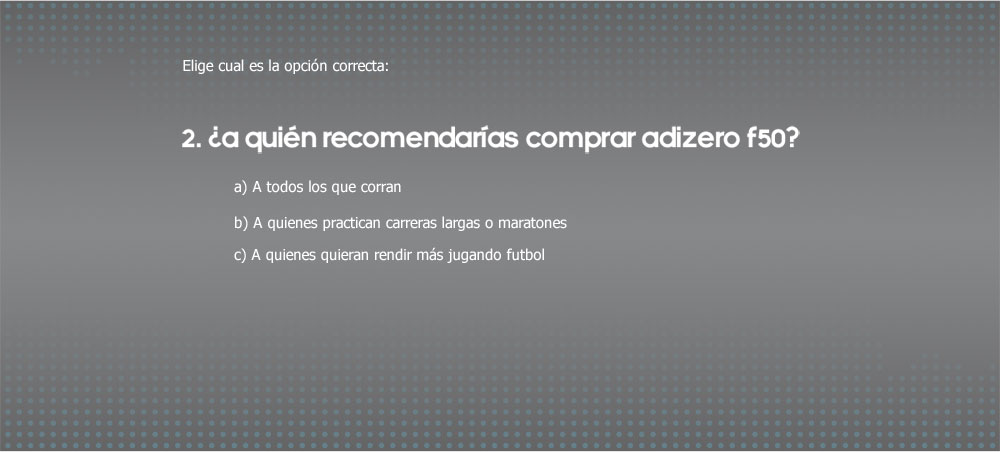
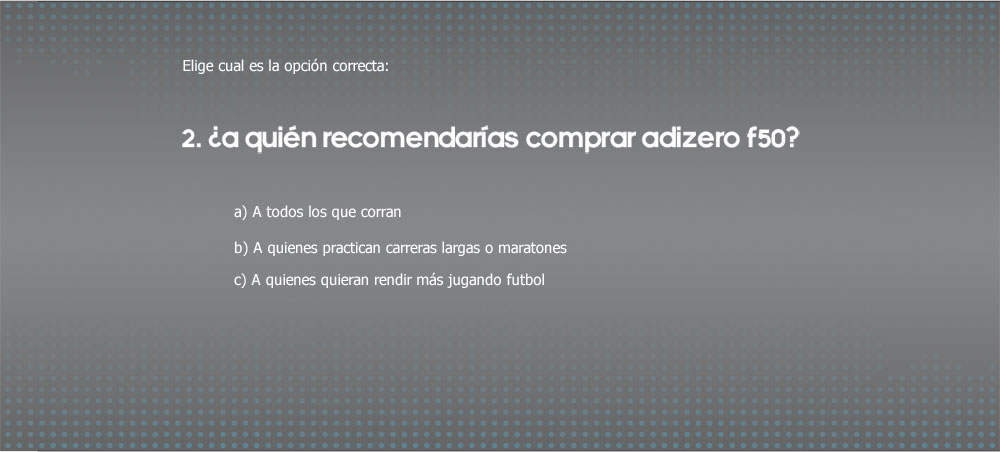
evaluacion.php complete

Changed region(s): [[0.217, 0.4646, 0.558, 0.6504], [0.031, 0.9912, 1.0, 1.0], [0.217, 0.4027, 0.403, 0.4336]]

diff --git a/style.css b/style.css
@@ -854,7 +854,7 @@ font-size: 12px;
 }
 
 .slidedeck_buttons{
-    left:625px;
+    left:710px;
     position:absolute;
     top:10px;
     z-index:1;
@@ -873,19 +873,19 @@ font-size: 12px;
 
 .slidedeck_op1{
     position: absolute;
-    top: 182px;
+    top: 207px;
     left: 215px;
     z-index: 1;
 }
 .slidedeck_op2{
     position: absolute;
-    top: 216px;
+    top: 243px;
     left: 215px;
     z-index: 1;
 }
 .slidedeck_op3{
     position: absolute;
-    top: 249px;
+    top: 275px;
     left: 215px;
     z-index: 1;
 }

diff --git a/evaluacion.php b/evaluacion.php
@@ -1,9 +1,10 @@
 <?php
 include_once('functions.php');
 $logoutAction = logout();
+$eval = $_GET['eval'];
 if(isset($_GET['evaluacion'])){
-$aciertos=0;	
-$errores=0;
+	$aciertos=0;		
+	$errores=0;
 	$_GET['eval'] = $_GET['evaluacion'];
 	$error=false;
 	$error=(isset($_GET['p1']))?false:true;
@@ -17,43 +18,38 @@ $errores=0;
 	$error=(isset($_GET['p9']))?false:true;
 	
 	if(!$error){
-		switch($_GET['evaluacion'])
-{
-	case 'f50':
-	$respuestas=array('a','a','a','a','a','true','true','true','true');
-	break;
-	case'predator':
-	$respuestas=array('b','b','b','b','b','false','false','false','false');
-	break;
-	case'adipure':
-	$respuestas=array('c','c','c','c','c','true','true','true','true',);
-	break;
-}
-for($i=1;$i<10;$i++)
-{
-	if($_GET['p'.$i]==$respuestas[$i-1]){
-		$aciertos++;
-								  }	
-	else{
-	$errores++;
+		switch($_GET['evaluacion']){
+			case 'f50':
+			$respuestas=array('a','a','a','a','a','true','true','true','true');
+			break;
+			case'predator':
+			$respuestas=array('b','b','b','b','b','false','false','false','false');
+			break;
+			case'adipure':
+			$respuestas=array('c','c','c','c','c','true','true','true','true',);
+			break;
+		}
+		for($i=1;$i<10;$i++){
+			if($_GET['p'.$i]==$respuestas[$i-1]){
+				$aciertos++;
+			}else{
+				$errores++;
+			}
+		}
+  		$resultado=$aciertos-$errores;
+  		if($resultado<0){
+	  		$resultado=0;
+		}
+  		$user= new User();
+  		$user->set_evaluation($_SESSION['id'],$resultado*10,$_GET['evaluacion']);
 	}
 }
-  $resultado=$aciertos-$errores;
-  if($resultado<0){
-	  $resultado=0;
-	}
-  $user= new User();
-  $user->set_evaluation($_SESSION['id'],$resultado*10,$_GET['evaluacion']);
-	}
-
-}
-
-//authorize(0, "index.php?accesscheck=" . $_SERVER['PHP_SELF']);
-//$user=profile();
+authorize(0, "index.php?accesscheck=" . $_SERVER['PHP_SELF']);
+$user=profile();
 include ("includes/header.php");
 ?>
 			<div id="user">
-    	    	<h2 class="user">Hola <?php //echo $user['nombre'] ?> </h2>
+    	    	<h2 class="user">Hola <?php echo $user['nombre'] ?> </h2>
 				<a href="<?php echo $logoutAction ?>" class="logout">Log out</a>	
 			</div>
 			<div class="linea"></div>
@@ -62,18 +58,31 @@ include ("includes/header.php");
                 	<script type="text/javascript">
 						$(document).ready(function(){
 							var index = 0;
+							$('#enviar').hide();
+							$('#anterior').hide();
 							$('#siguiente').click(function(e){
 								e.preventDefault();
+								$('#enviar').hide();
+								$('#siguiente').show();
+								$('#anterior').show();
 								if(index < $('.slide').size() - 1){
 									index++;
 									$('#evaluacion').animate({top: (-452*index)+'px'});
+								}else{
+									$('#siguiente').hide();
+									$('#enviar').show();
 								}
 							});
 							$('#anterior').click(function(e){
 								e.preventDefault();
+								$('#enviar').hide();
+								$('#siguiente').show();
+								$('#anterior').show();
 								if(index > 0){
 									index--;
 									$('#evaluacion').animate({top: (-452*index)+'px'});
+								}else{
+									$('#anterior').hide();
 								}
 							});
 							$('#enviar').click(function(e){
@@ -99,11 +108,67 @@ include ("includes/header.php");
                     </div>
                     <?php endif; ?>
                 	<div class="slidedeck_buttons">
-                        <a href="home.php" id="salir"><img src="imagesAdidas/evaluaciones/salir_btn.png" /></a>
                         <a href="#" id="anterior"><img src="imagesAdidas/evaluaciones/anterior_btn.png" /></a>
                         <a href="#" id="siguiente"><img src="imagesAdidas/evaluaciones/siguiente_btn.png" /></a>
                         <a href="#" id="enviar"><img src="imagesAdidas/evaluaciones/enviar_btn.png" /></a>
-                   	</div>
+                   		<a href="home.php" id="salir"><img src="imagesAdidas/evaluaciones/salir_btn.png" /></a>
+                    </div>
+                    <?php switch($_GET['eval']){ 
+					case "predator":?>
+                    <form id="evaluacion" method="get">
+                    <input type="hidden" name="evaluacion" value="<?php echo $_GET['eval'] ?>" />
+                	<div class="slide">
+                		<img src="imagesAdidas/evaluaciones/<?php echo $_GET['eval'] ?>/slide0.jpg" />
+                    </div>
+                    <div class="slide">
+                        <img src="imagesAdidas/evaluaciones/<?php echo $_GET['eval'] ?>/slide1.jpg" />
+                        <input type="radio" class="slidedeck_op1" name="p1" value="a" />
+                        <input type="radio" class="slidedeck_op2" name="p1" value="b" />
+                        <input type="radio" class="slidedeck_op3" name="p1" value="c" />
+                    </div>
+                    <div class="slide">
+                        <img src="imagesAdidas/evaluaciones/<?php echo $_GET['eval'] ?>/slide2.jpg" />
+                        <input type="radio" class="slidedeck_op1" name="p2" value="a" />
+                        <input type="radio" class="slidedeck_op2" name="p2" value="b" />
+                        <input type="radio" class="slidedeck_op3" name="p2" value="c" />
+                    </div>
+                    <div class="slide">
+                        <img src="imagesAdidas/evaluaciones/<?php echo $_GET['eval'] ?>/slide3.jpg" />
+                        <input type="radio" class="slidedeck_op1" name="p3" value="a" />
+                        <input type="radio" class="slidedeck_op2" name="p3" value="b" />
+                        <input type="radio" class="slidedeck_op3" name="p3" value="c" />
+                    </div>
+                    <div class="slide">
+                        <img src="imagesAdidas/evaluaciones/<?php echo $_GET['eval'] ?>/slide4.jpg" />
+                        <input type="radio" class="slidedeck_true" name="p4" value="true" />
+                        <input type="radio" class="slidedeck_false" name="p4" value="false" />
+                    </div>
+                    <div class="slide">
+                        <img src="imagesAdidas/evaluaciones/<?php echo $_GET['eval'] ?>/slide5.jpg" />
+                        <input type="radio" class="slidedeck_op1" name="p5" value="a" />
+                        <input type="radio" class="slidedeck_op2" name="p5" value="b" />
+                        <input type="radio" class="slidedeck_op3" name="p5" value="c" />
+                    </div>
+                    <div class="slide">
+                        <img src="imagesAdidas/evaluaciones/<?php echo $_GET['eval'] ?>/slide6.jpg" />
+                        <input type="radio" class="slidedeck_op1" name="p6" value="a" />
+                        <input type="radio" class="slidedeck_op2" name="p6" value="b" />
+                        <input type="radio" class="slidedeck_op3" name="p6" value="c" />
+                    </div>
+                    <div class="slide">
+                        <img src="imagesAdidas/evaluaciones/<?php echo $_GET['eval'] ?>/slide7.jpg" />
+                        <input type="radio" class="slidedeck_op1" name="p7" value="a" />
+                        <input type="radio" class="slidedeck_op2" name="p7" value="b" />
+                        <input type="radio" class="slidedeck_op3" name="p7" value="c" />
+                    </div>
+                    <div class="slide">
+                        <img src="imagesAdidas/evaluaciones/<?php echo $_GET['eval'] ?>/slide8.jpg" />
+                        <input type="radio" class="slidedeck_op1" name="p8" value="a" />
+                        <input type="radio" class="slidedeck_op2" name="p8" value="b" />
+                        <input type="radio" class="slidedeck_op3" name="p8" value="c" />
+                    </div>
+					<?php break;
+					case "f50":?>
                     <form id="evaluacion" method="get">
                     <input type="hidden" name="evaluacion" value="<?php echo $_GET['eval'] ?>" />
                 	<div class="slide">
@@ -159,6 +224,67 @@ include ("includes/header.php");
                         <input type="radio" class="slidedeck_false" name="p9" value="false" />
                     </div>
                     </form>
+                    <?php break;
+					case "adipure":?>
+                    <form id="evaluacion" method="get">
+                    <input type="hidden" name="evaluacion" value="<?php echo $_GET['eval'] ?>" />
+                	<div class="slide">
+                		<img src="imagesAdidas/evaluaciones/<?php echo $_GET['eval'] ?>/slide0.jpg" />
+                    </div>
+                    <div class="slide">
+                        <img src="imagesAdidas/evaluaciones/<?php echo $_GET['eval'] ?>/slide1.jpg" />
+                        <input type="radio" class="slidedeck_op1" name="p1" value="a" />
+                        <input type="radio" class="slidedeck_op2" name="p1" value="b" />
+                        <input type="radio" class="slidedeck_op3" name="p1" value="c" />
+                    </div>
+                    <div class="slide">
+                        <img src="imagesAdidas/evaluaciones/<?php echo $_GET['eval'] ?>/slide2.jpg" />
+                        <input type="radio" class="slidedeck_op1" name="p2" value="a" />
+                        <input type="radio" class="slidedeck_op2" name="p2" value="b" />
+                        <input type="radio" class="slidedeck_op3" name="p2" value="c" />
+                    </div>
+                    <div class="slide">
+                        <img src="imagesAdidas/evaluaciones/<?php echo $_GET['eval'] ?>/slide3.jpg" />
+                        <input type="radio" class="slidedeck_op1" name="p3" value="a" />
+                        <input type="radio" class="slidedeck_op2" name="p3" value="b" />
+                        <input type="radio" class="slidedeck_op3" name="p3" value="c" />
+                    </div>
+                    <div class="slide">
+                        <img src="imagesAdidas/evaluaciones/<?php echo $_GET['eval'] ?>/slide4.jpg" />
+                        <input type="radio" class="slidedeck_true" name="p4" value="true" />
+                        <input type="radio" class="slidedeck_false" name="p4" value="false" />
+                    </div>
+                    <div class="slide">
+                        <img src="imagesAdidas/evaluaciones/<?php echo $_GET['eval'] ?>/slide5.jpg" />
+                        <input type="radio" class="slidedeck_true" name="p5" value="true" />
+                        <input type="radio" class="slidedeck_false" name="p5" value="false" />
+                    </div>
+                    <div class="slide">
+                        <img src="imagesAdidas/evaluaciones/<?php echo $_GET['eval'] ?>/slide6.jpg" />
+                        <input type="radio" class="slidedeck_true" name="p6" value="true" />
+                        <input type="radio" class="slidedeck_false" name="p6" value="false" />
+                    </div>
+                    <div class="slide">
+                        <img src="imagesAdidas/evaluaciones/<?php echo $_GET['eval'] ?>/slide7.jpg" />
+                        <input type="radio" class="slidedeck_op1" name="p7" value="a" />
+                        <input type="radio" class="slidedeck_op2" name="p7" value="b" />
+                        <input type="radio" class="slidedeck_op3" name="p7" value="c" />
+                    </div>
+                    <div class="slide">
+                        <img src="imagesAdidas/evaluaciones/<?php echo $_GET['eval'] ?>/slide8.jpg" />
+                        <input type="radio" class="slidedeck_op1" name="p8" value="a" />
+                        <input type="radio" class="slidedeck_op2" name="p8" value="b" />
+                        <input type="radio" class="slidedeck_op3" name="p8" value="c" />
+                    </div>
+                    <div class="slide">
+                        <img src="imagesAdidas/evaluaciones/<?php echo $_GET['eval'] ?>/slide9.jpg" />
+                        <input type="radio" class="slidedeck_op1" name="p9" value="a" />
+                        <input type="radio" class="slidedeck_op2" name="p9" value="b" />
+                        <input type="radio" class="slidedeck_op3" name="p9" value="c" />
+                    </div>
+                    </form>
+                    <?php break;?>
+					<?php } ?>
                 </div>
 			</div>
 			<div id="footer">
